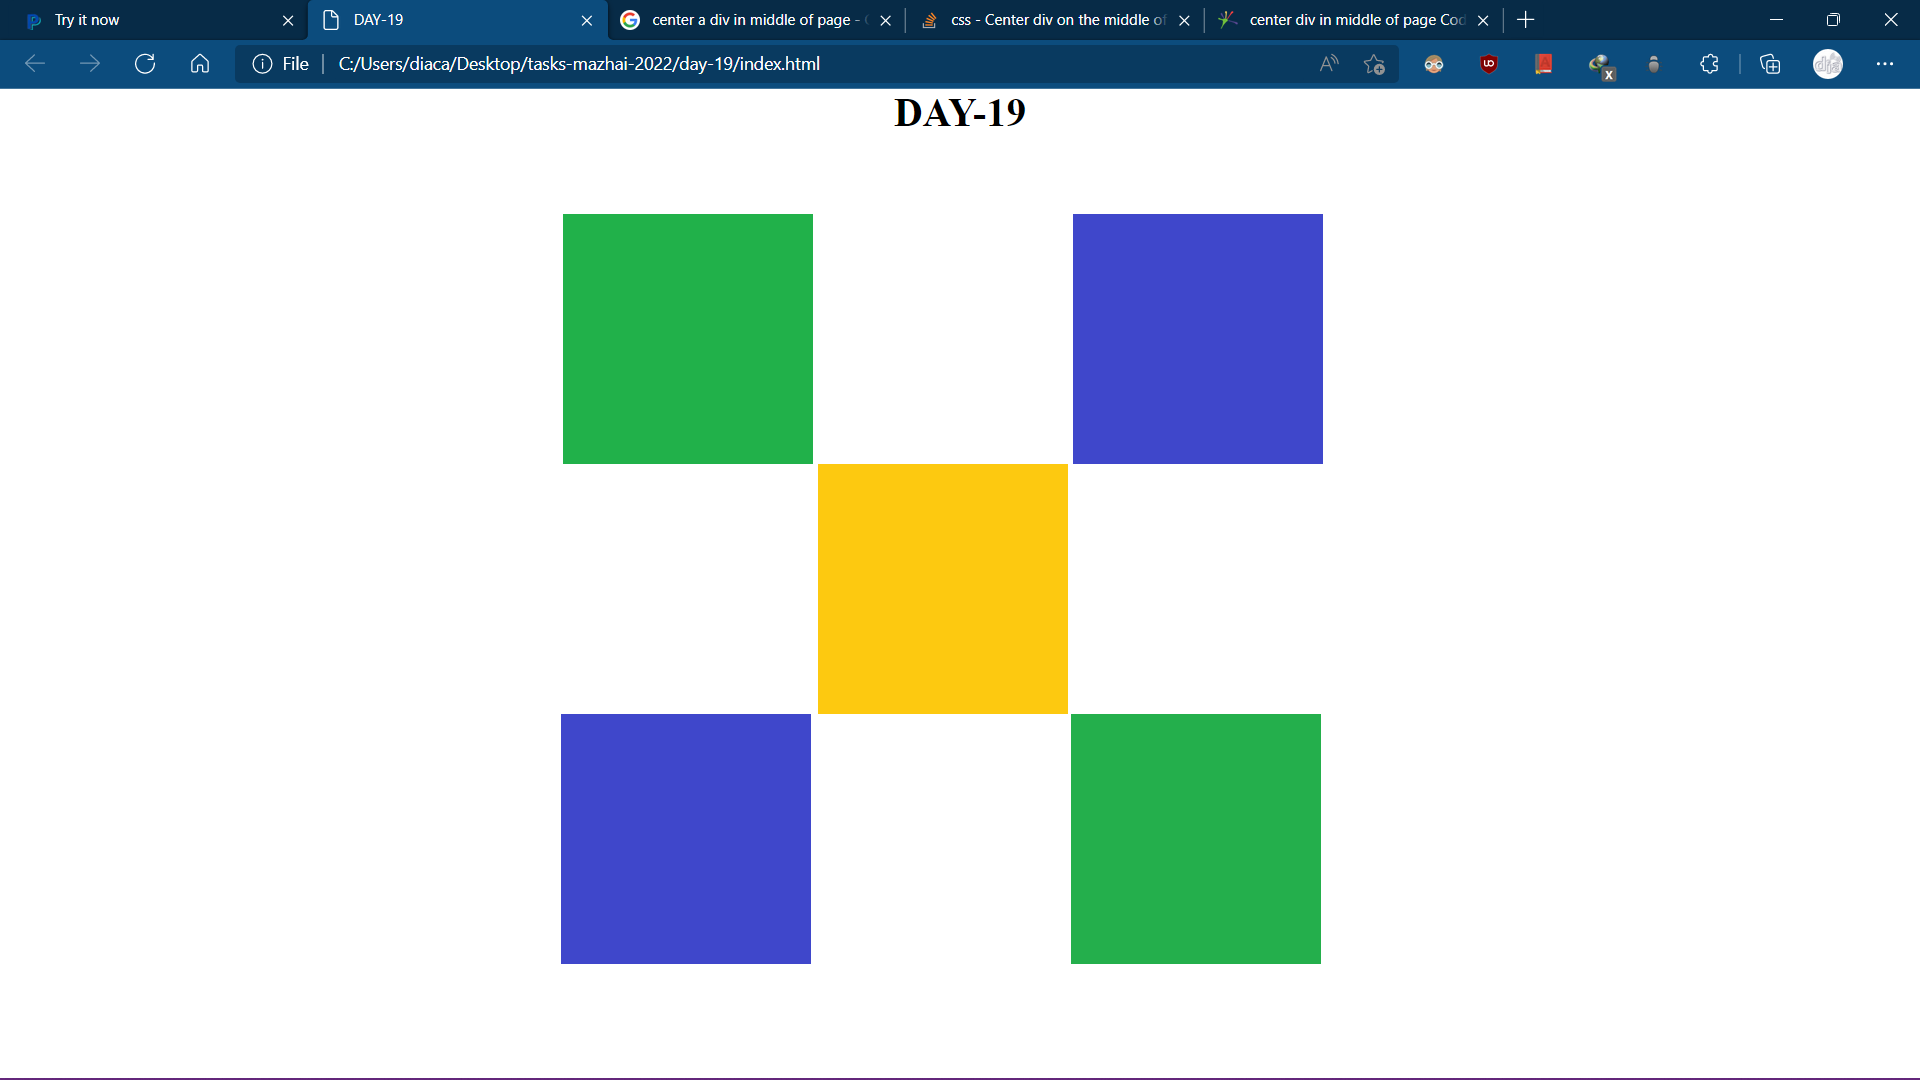
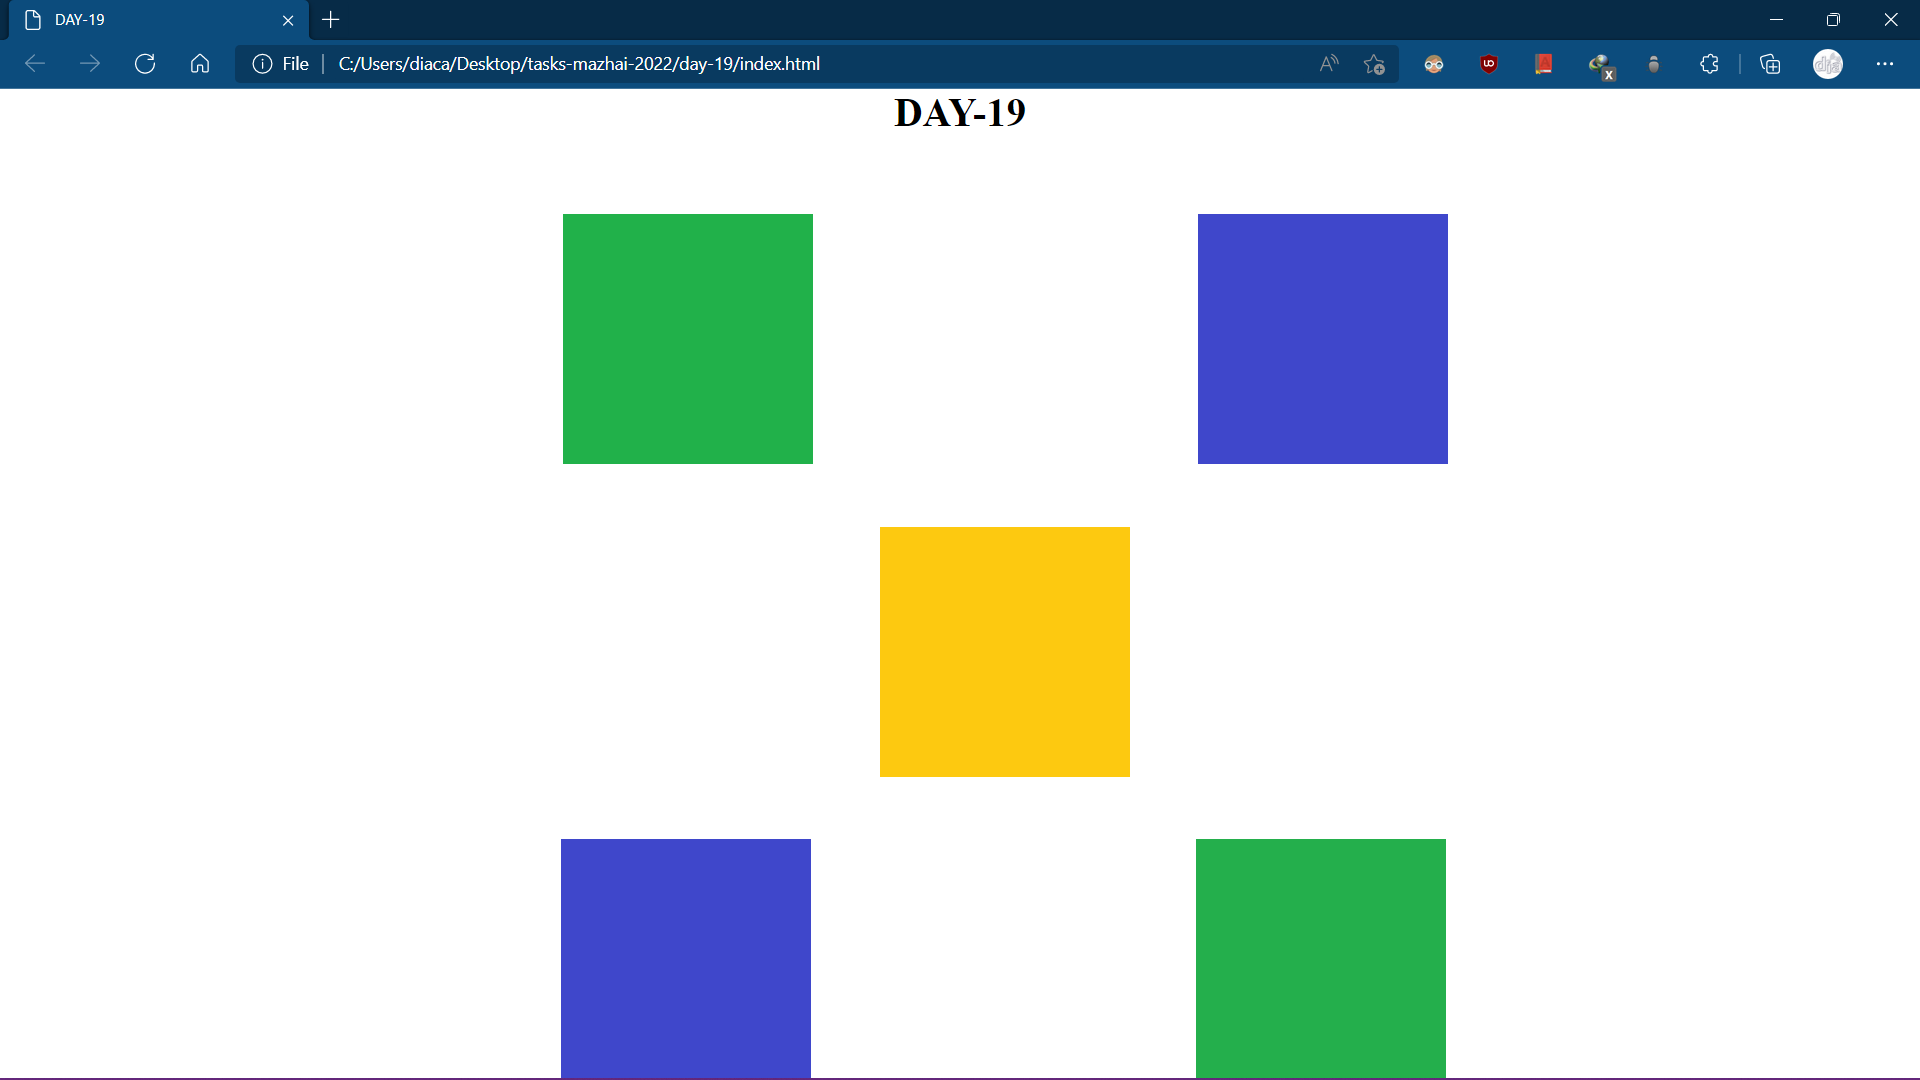
task-19 mistakes corrected

diff --git a/day-19/main.css b/day-19/main.css
@@ -20,6 +20,7 @@ h1 {
     width: 200px;
     display: inline-block;
     position: relative;
+    bottom: 100px;
 
 }
 
@@ -30,6 +31,7 @@ h1 {
     display: inline-block;
     position: relative;
     top: 200px;
+    margin: 50px;
 }
 
 .three {
@@ -38,6 +40,8 @@ h1 {
     height: 200px;
     width: 200px;
     display: inline-block;
+    position: relative;
+    bottom: 100px;
 }
 
 
@@ -48,7 +52,8 @@ h1 {
     display: inline-block;
     position: relative;
     top: 400px;
-    right: 613px;
+    right: 713px;
+
 }
 
 .five {
@@ -59,5 +64,6 @@ h1 {
     position: relative;
     top: 400px;
     right: 409px;
+
 
 }
